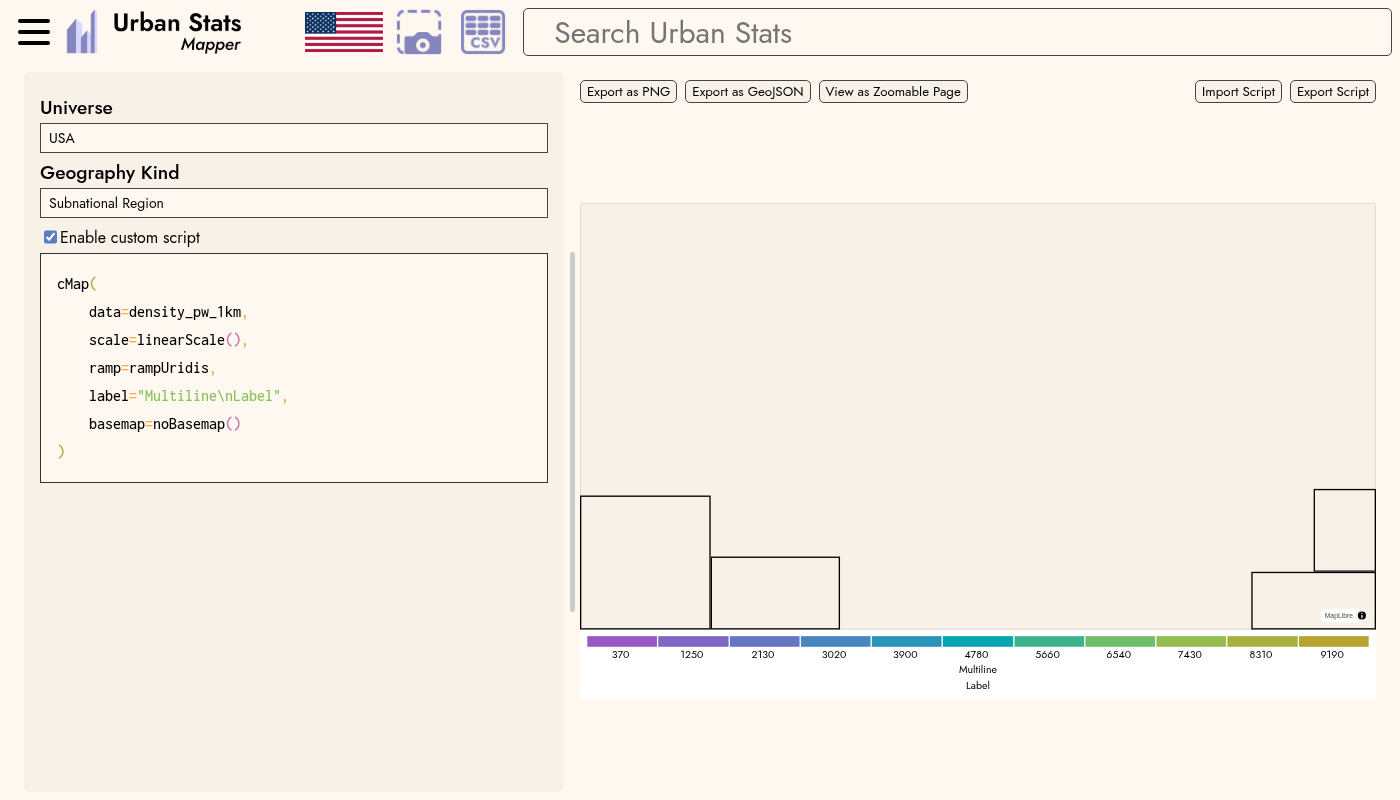
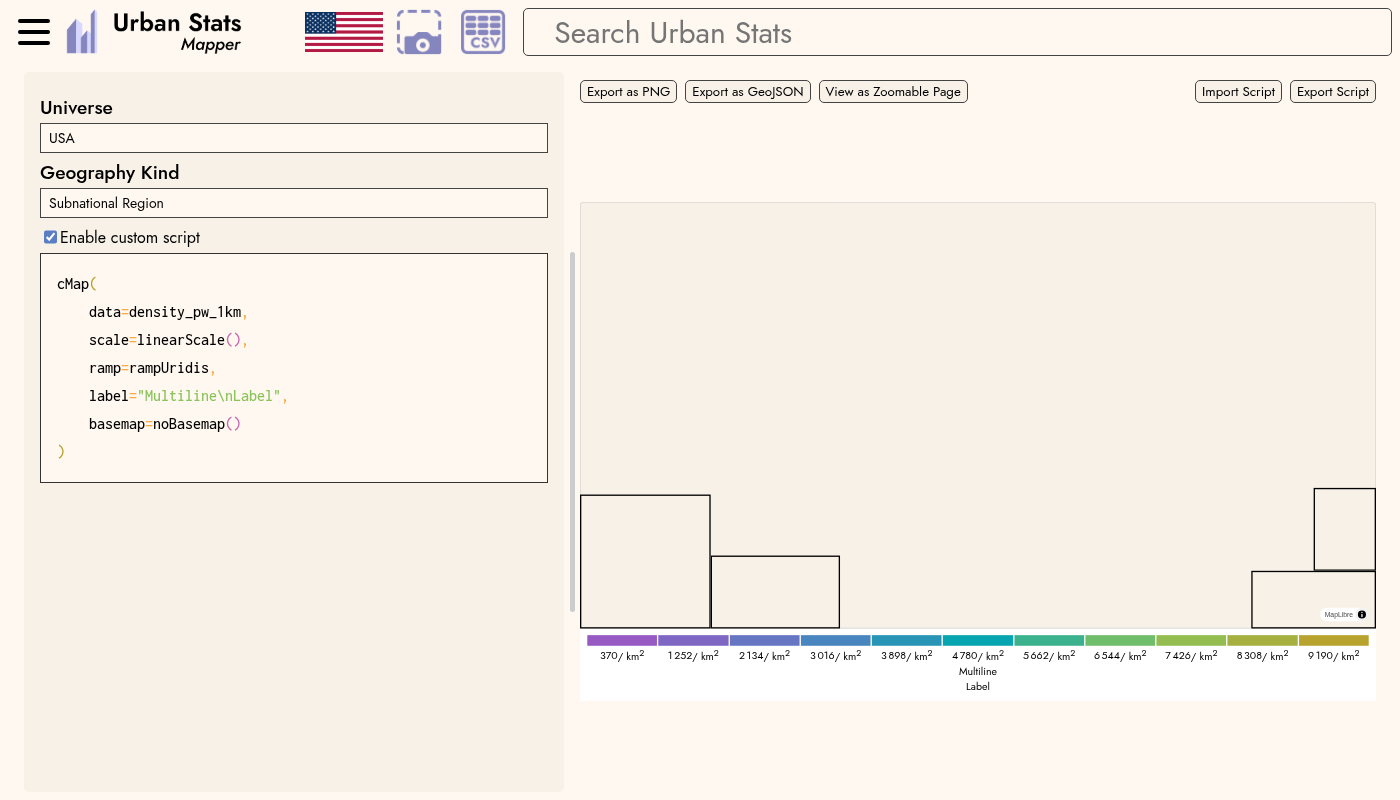
add unit documentation (#1817)
Add what the unit is to the documentation on type values. If present,
render it. Also use this in cMap rather than inferring the unit later,
if applicable

Resolves #1426 

the later change does affect semantics of cMap slightly (see changed
screenshots). If you relabel a graph colored by a statistic with an
associated unit, this won't erase the unit information

diff --git a/react/src/components/unit-display.tsx b/react/src/components/unit-display.tsx
@@ -406,79 +406,75 @@ export function getUnitDisplay(unitType: UnitType): UnitDisplay {
     }
 }
 
-export function classifyStatistic(statname: string): UnitType {
-    if (/20\d{2}GE/.test(statname) || /20\d{2}-20\d{2} Swing/.test(statname)) {
-        // Canadian election statistics
-        const isSwing = statname.includes('Swing')
-        if (statname.includes('Lib %')) {
-            return isSwing ? 'partyChangeRed' : 'partyPctRed'
-        }
-        if (statname.includes('Con %')) {
-            return isSwing ? 'partyChangeBlue' : 'partyPctBlue'
-        }
-        if (statname.includes('NDP %')) {
-            return isSwing ? 'partyChangeOrange' : 'partyPctOrange'
-        }
-        if (statname.includes('BQ %')) {
-            return isSwing ? 'partyChangeTeal' : 'partyPctTeal'
-        }
-        if (statname.includes('Grn %')) {
-            return isSwing ? 'partyChangeGreen' : 'partyPctGreen'
-        }
-        if (statname.includes('PPC %')) {
-            return isSwing ? 'partyChangePurple' : 'partyPctPurple'
-        }
+export function getUnit(unit: UnitType): ReactNode {
+    switch (unit) {
+        case 'percentage':
+        case 'percentageChange':
+            return <span>%</span>
+        case 'fatalities':
+            return <span>fatalities</span>
+        case 'fatalitiesPerCapita':
+            return <span>fatalities per capita</span>
+        case 'density':
+            return (
+                <span>
+                    people per&nbsp;km
+                    <sup>2</sup>
+                </span>
+            )
+        case 'population':
+            return <span>people</span>
+        case 'area':
+            return (
+                <span>
+                    km
+                    <sup>2</sup>
+                </span>
+            )
+        case 'distanceInKm':
+            return <span>km</span>
+        case 'distanceInM':
+            return <span>m</span>
+        case 'democraticMargin':
+            return <span>% margin</span>
+        case 'temperature':
+            return <span>&deg;F</span>
+        case 'time':
+            return <span>time</span>
+        case 'distancePerYear':
+            return (
+                <span>
+                    m/yr
+                </span>
+            )
+        case 'contaminantLevel':
+            return (
+                <span>
+                    &mu;g/m
+                    <sup>3</sup>
+                </span>
+            )
+        case 'number':
+            return <span>&nbsp;</span>
+        case 'usd':
+            return <span>$</span>
+        case 'minutes':
+            return <span>minutes</span>
+        case 'partyPctBlue':
+        case 'partyPctRed':
+        case 'partyPctOrange':
+        case 'partyPctTeal':
+        case 'partyPctGreen':
+        case 'partyPctPurple':
+            return <span>%</span>
+        case 'partyChangeBlue':
+        case 'partyChangeRed':
+        case 'partyChangeOrange':
+        case 'partyChangeTeal':
+        case 'partyChangeGreen':
+        case 'partyChangePurple':
+            return <span>% change</span>
+        case 'leftMargin':
+            return <span>% left margin</span>
     }
-    if (statname.includes('2-Coalition Margin')) {
-        return 'leftMargin'
-    }
-    if (statname.includes('Change') && (statname.includes('Population') || statname.includes('Density'))) {
-        return 'percentageChange'
-    }
-    if (statname.includes('%') || statname.includes('Change') || statname.includes('(Grade)')) {
-        return 'percentage'
-    }
-    if (statname.includes('Total') && statname.includes('Fatalities')) {
-        return 'fatalities'
-    }
-    if (statname.includes('Fatalities Per Capita')) {
-        return 'fatalitiesPerCapita'
-    }
-    if (statname.includes('Density')) {
-        return 'density'
-    }
-    if (statname.includes('Elevation')) {
-        return 'distanceInM'
-    }
-    if (statname.startsWith('Population')) {
-        return 'population'
-    }
-    if (statname === 'Area') {
-        return 'area'
-    }
-    if (statname.includes('Mean distance')) {
-        return 'distanceInKm'
-    }
-    if (statname.includes('Election') || statname.includes('Swing')) {
-        return 'democraticMargin'
-    }
-    if (statname.includes('high temp') || statname.includes('low temp') || statname.includes('high heat index') || statname.includes('dewpt')) {
-        return 'temperature'
-    }
-    if (statname === 'Mean sunny hours') {
-        return 'time'
-    }
-    if (statname === 'Rainfall' || statname === 'Snowfall [rain-equivalent]') {
-        return 'distancePerYear'
-    }
-    if (statname.includes('Pollution')) {
-        return 'contaminantLevel'
-    }
-    if (statname.includes('(USD)')) {
-        return 'usd'
-    }
-    if (statname.includes('(min)')) {
-        return 'minutes'
-    }
-    return 'number'
 }

diff --git a/react/src/utils/unit.ts b/react/src/utils/unit.ts
@@ -108,3 +108,80 @@ export function getUnitName(unitType: UnitType): string {
             return 'Left Margin'
     }
 }
+
+export function classifyStatistic(statname: string): UnitType {
+    if (/20\d{2}GE/.test(statname) || /20\d{2}-20\d{2} Swing/.test(statname)) {
+        // Canadian election statistics
+        const isSwing = statname.includes('Swing')
+        if (statname.includes('Lib %')) {
+            return isSwing ? 'partyChangeRed' : 'partyPctRed'
+        }
+        if (statname.includes('Con %')) {
+            return isSwing ? 'partyChangeBlue' : 'partyPctBlue'
+        }
+        if (statname.includes('NDP %')) {
+            return isSwing ? 'partyChangeOrange' : 'partyPctOrange'
+        }
+        if (statname.includes('BQ %')) {
+            return isSwing ? 'partyChangeTeal' : 'partyPctTeal'
+        }
+        if (statname.includes('Grn %')) {
+            return isSwing ? 'partyChangeGreen' : 'partyPctGreen'
+        }
+        if (statname.includes('PPC %')) {
+            return isSwing ? 'partyChangePurple' : 'partyPctPurple'
+        }
+    }
+    if (statname.includes('2-Coalition Margin')) {
+        return 'leftMargin'
+    }
+    if (statname.includes('Change') && (statname.includes('Population') || statname.includes('Density'))) {
+        return 'percentageChange'
+    }
+    if (statname.includes('%') || statname.includes('Change') || statname.includes('(Grade)')) {
+        return 'percentage'
+    }
+    if (statname.includes('Total') && statname.includes('Fatalities')) {
+        return 'fatalities'
+    }
+    if (statname.includes('Fatalities Per Capita')) {
+        return 'fatalitiesPerCapita'
+    }
+    if (statname.includes('Density')) {
+        return 'density'
+    }
+    if (statname.includes('Elevation')) {
+        return 'distanceInM'
+    }
+    if (statname.startsWith('Population')) {
+        return 'population'
+    }
+    if (statname === 'Area') {
+        return 'area'
+    }
+    if (statname.includes('Mean distance')) {
+        return 'distanceInKm'
+    }
+    if (statname.includes('Election') || statname.includes('Swing')) {
+        return 'democraticMargin'
+    }
+    if (statname.includes('high temp') || statname.includes('low temp') || statname.includes('high heat index') || statname.includes('dewpt')) {
+        return 'temperature'
+    }
+    if (statname === 'Mean sunny hours') {
+        return 'time'
+    }
+    if (statname === 'Rainfall' || statname === 'Snowfall [rain-equivalent]') {
+        return 'distancePerYear'
+    }
+    if (statname.includes('Pollution')) {
+        return 'contaminantLevel'
+    }
+    if (statname.includes('(USD)')) {
+        return 'usd'
+    }
+    if (statname.includes('(min)')) {
+        return 'minutes'
+    }
+    return 'number'
+}

diff --git a/react/src/uss-documentation.tsx b/react/src/uss-documentation.tsx
@@ -4,6 +4,7 @@ import { Footnotes, FootnotesProvider } from 'react-a11y-footnotes'
 
 import './style.css'
 import './common.css'
+import { getUnit } from './components/unit-display'
 import { defaultTypeEnvironment } from './mapper/context'
 import { urlFromPageDescriptor } from './navigation/PageDescriptor'
 import { useColors } from './page_template/colors'
@@ -473,19 +474,28 @@ export function LongFormDocumentation(props: { name: string, value: USSDocumente
     return (
         <Header key={props.name} title={props.name} header="h4" ident={`${constantPrefix}${props.name}`}>
             <div style={{ marginBottom: '20px', marginLeft: '20px' }}>
-                <div style={{ marginBottom: '10px' }}>
-                    Type:
-                    <code style={{
-                        backgroundColor: colors.slightlyDifferentBackground,
-                        padding: '4px 8px',
-                        borderRadius: '3px',
-                        fontFamily: '\'Courier New\', monospace',
-                        fontSize: '13px',
-                        marginLeft: '10px',
-                    }}
-                    >
-                        {renderType(props.value.type)}
-                    </code>
+                <div style={{ marginBottom: '10px', display: 'flex', gap: '16px', alignItems: 'center', flexWrap: 'wrap' }}>
+                    <div>
+                        Type:
+                        <code style={{
+                            backgroundColor: colors.slightlyDifferentBackground,
+                            padding: '4px 8px',
+                            borderRadius: '3px',
+                            fontFamily: '\'Courier New\', monospace',
+                            fontSize: '13px',
+                            marginLeft: '10px',
+                        }}
+                        >
+                            {renderType(props.value.type)}
+                        </code>
+                    </div>
+                    {props.value.documentation?.unit !== undefined && (
+                        <div style={{ color: colors.textMain }}>
+                            <strong>Unit:</strong>
+                            {' '}
+                            {getUnit(props.value.documentation.unit)}
+                        </div>
+                    )}
                 </div>
                 <div style={{ marginBottom: '10px' }}>
                     {props.value.documentation?.longDescription ?? 'No description available.'}

diff --git a/react/src/mapper/context.ts b/react/src/mapper/context.ts
@@ -11,6 +11,7 @@ import { allIdentifiers } from '../urban-stats-script/parser'
 import { TypeEnvironment, USSValue } from '../urban-stats-script/types-values'
 import { assert } from '../utils/defensive'
 import { firstNonNan } from '../utils/math'
+import { classifyStatistic } from '../utils/unit'
 
 export async function mapperContext(stmts: UrbanStatsASTStatement, getVariable: (name: string) => Promise<USSValue | undefined>, effects: Effect[], universe: Universe): Promise<Context> {
     const ctx = new Context(
@@ -139,6 +140,7 @@ export const defaultTypeEnvironment = (universe: Universe | undefined): TypeEnvi
                 includedInOutputContext: true,
                 fromStatisticColumn: true,
                 deprecated: (variableInfo as { deprecated: string | null }).deprecated ?? undefined,
+                unit: classifyStatistic(variableInfo.humanReadableName),
             },
         })
     }
@@ -163,6 +165,7 @@ export const defaultTypeEnvironment = (universe: Universe | undefined): TypeEnvi
                 selectorRendering: { kind: 'subtitleLongDescription' },
                 includedInOutputContext: true,
                 fromStatisticColumn: true,
+                unit: classifyStatistic(info.humanReadableName),
             },
         })
     }

diff --git a/react/src/urban-stats-script/constants/map.ts b/react/src/urban-stats-script/constants/map.ts
@@ -180,7 +180,16 @@ function computeCommonMap(
     const basemap = (namedArgs.basemap as { type: 'opaque', opaqueType: 'basemap', value: Basemap }).value
     const insets = (namedArgs.insets as { type: 'opaque', opaqueType: 'insets', value: Inset[] }).value
     const unitArg = namedArgs.unit as { type: 'opaque', opaqueType: 'unit', value: { unit: string } } | null
-    const unit = unitArg ? (unitArg.value.unit as UnitType) : undefined
+    let unit: UnitType | undefined
+    if (unitArg) {
+        unit = unitArg.value.unit as UnitType
+    }
+    else {
+        const inferredUnit = originalArgs.namedArgs.data.documentation?.unit
+        if (inferredUnit !== undefined) {
+            unit = inferredUnit
+        }
+    }
     const textBoxes = (namedArgs.textBoxes as { value: TextBox }[] | null ?? []).map(({ value }) => value)
 
     if (geo.length !== data.length) {

diff --git a/react/src/urban-stats-script/types-values.ts b/react/src/urban-stats-script/types-values.ts
@@ -1,6 +1,7 @@
 import type * as ArgEditButtons from '../mapper/settings/ArgEditButtons'
 import { Basemap } from '../mapper/settings/utils'
 import { assert } from '../utils/defensive'
+import { UnitType } from '../utils/unit'
 
 import { UrbanStatsASTExpression } from './ast'
 import { Color, deconstructColor, hexToColor } from './constants/color-utils'
@@ -191,6 +192,12 @@ export interface Documentation {
      * The string should explain why it's deprecated and what alternatives to use.
      */
     deprecated?: string
+    /**
+     * If present, describes the physical units of the underlying statistic
+     * This is primarily intended for statistics that originate from data
+     * columns; other USS constants will omit this field.
+     */
+    unit?: UnitType
 }
 
 export interface USSDocumentedType {

diff --git a/react/src/components/display-stats.tsx b/react/src/components/display-stats.tsx
@@ -2,9 +2,9 @@ import React, { CSSProperties, ReactNode } from 'react'
 
 import { useColors } from '../page_template/colors'
 import { useSetting } from '../page_template/settings'
-import { UnitType } from '../utils/unit'
+import { classifyStatistic, UnitType } from '../utils/unit'
 
-import { classifyStatistic, getUnitDisplay } from './unit-display'
+import { getUnitDisplay } from './unit-display'
 
 export function Statistic(props: { style?: React.CSSProperties, statname: string, value: number, isUnit: boolean, unit?: UnitType }): ReactNode {
     const [useImperial] = useSetting('use_imperial')
